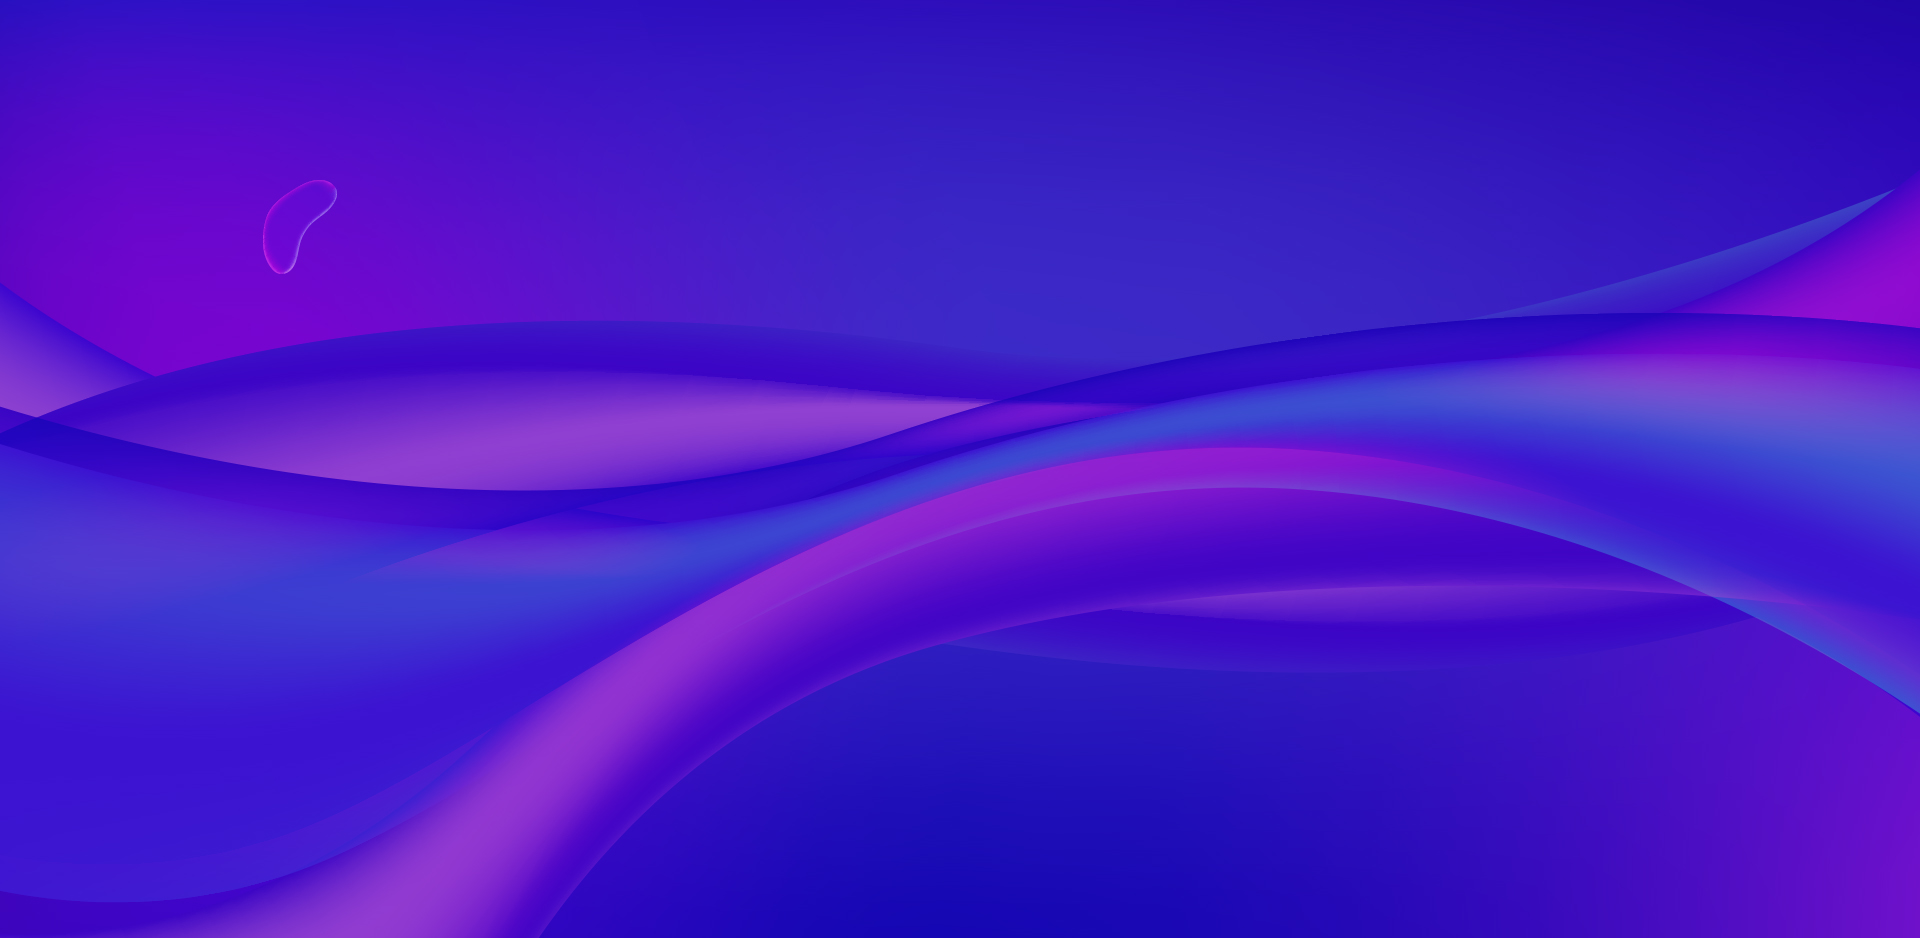
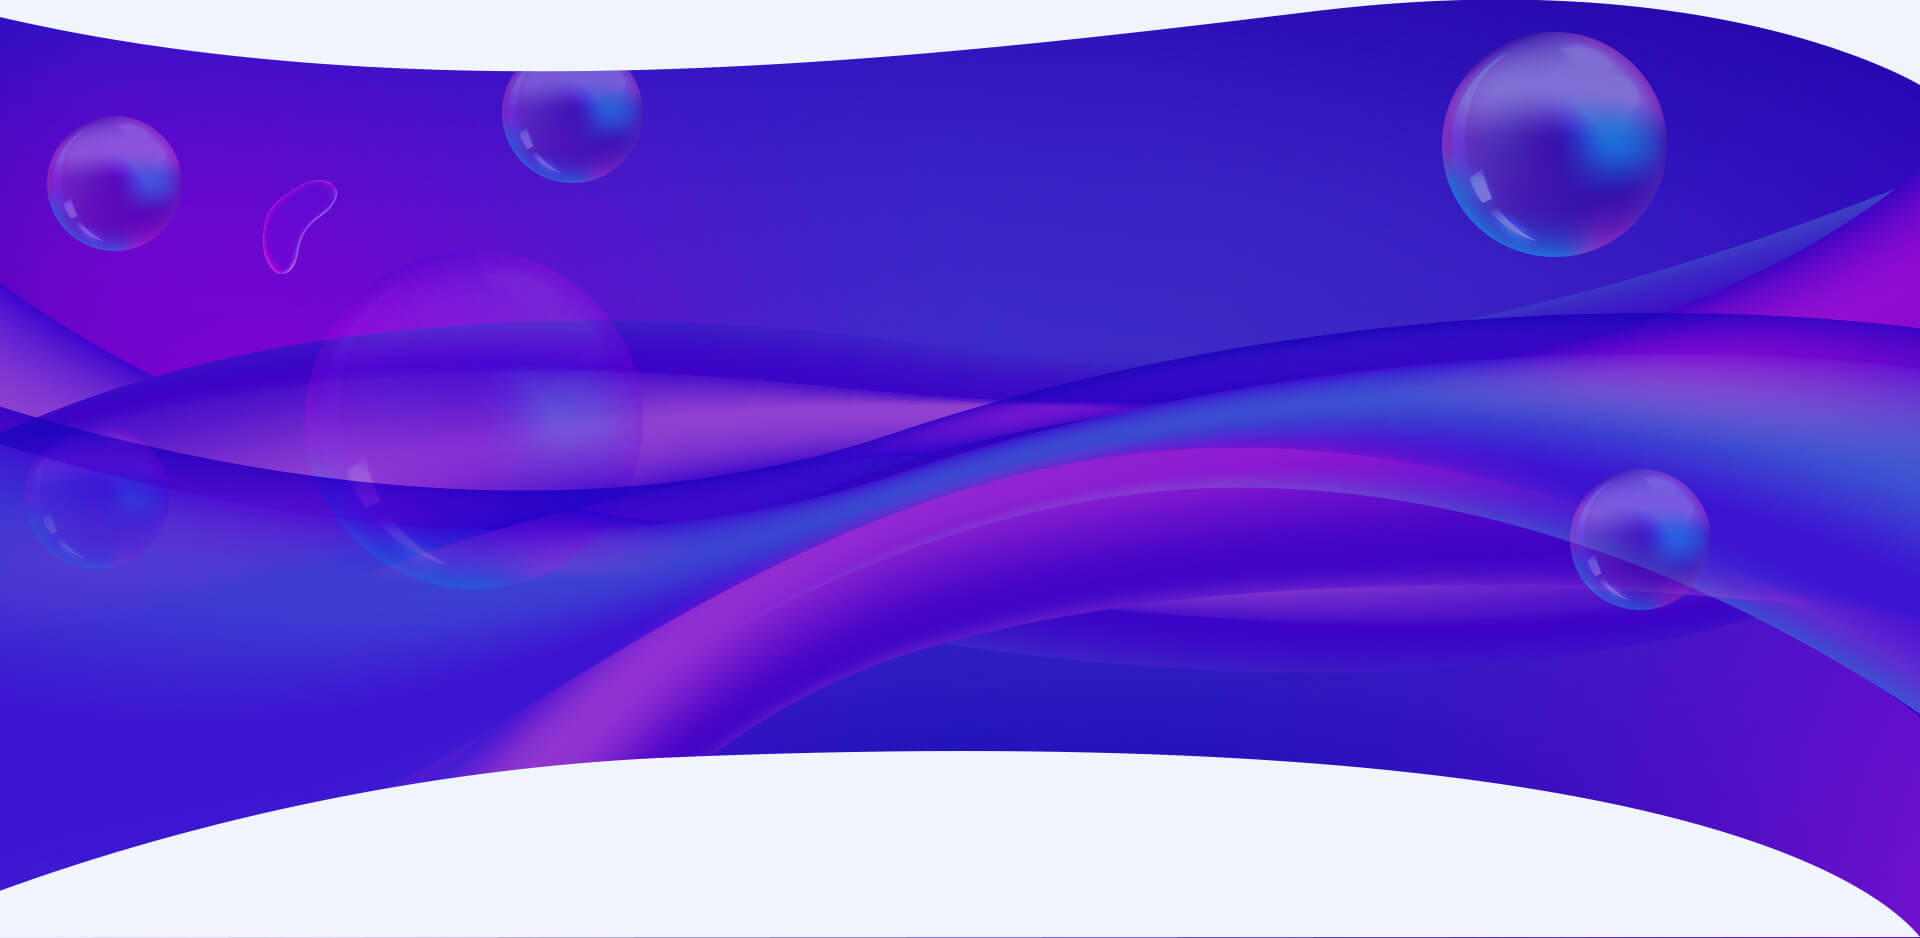
Стилизовали секцию addons

diff --git a/css/style.css b/css/style.css
@@ -1124,23 +1124,117 @@ input:checked+#overlay>* {
 
 /*----------Стили для секции addons ----------*/
 
-.addons {}
+.addons {
+  padding: 120px 15px;
+}
 
-.container {}
+.addons-container {
+  position: relative;
+  width: 730px;
+  height: 730px;
+  border-radius: 50%;
+  background: #f0f5fc;
+  margin: 0 auto;
+}
 
-.boost-decs {}
+.addons-container::before {
+  position: absolute;
+  top: 50%;
+  left: 50%;
+  content: "";
+  background-image: url(../img/addon-bg.png);
+  transform: translate(-50%, -50%);
+  width: 1920px;
+  height: 100%;
+  background-size: cover;
+  background-repeat: no-repeat;
+  background-position: center center;
+  z-index: -1;
+}
 
-.boost__subtitle {}
+.addons-item {
+  display: flex;
+  align-items: center;
+  justify-content: center;
+  width: 135px;
+  height: 135px;
+  background: #fff;
+  border-radius: 50%;
+}
 
-.boost__title {}
+.addons-item_center {
+  position: absolute;
+  top: 50%;
+  left: 50%;
+  transform: translate(-50%, -50%);
+}
 
-.boost__text {}
+.addons-item:nth-child(2) {
+  position: absolute;
+  top: 120px;
+  left: 50%;
+  transform: translate(-50%, -50%);
+}
 
-.addons-container {}
+.addons-item:nth-child(3) {
+  position: absolute;
+  top: 143px;
+  left: 110px;
+}
 
-.addons-item {}
+.addons-item:nth-child(4) {
+  position: absolute;
+  top: 143px;
+  right: 110px;
+}
 
-.addons-item_center {}
+.addons-item:nth-child(5) {
+  position: absolute;
+  top: 330px;
+  left: 30px;
+}
+
+.addons-item:nth-child(6) {
+  position: absolute;
+  top: 330px;
+  right: 30px;
+}
+
+.addons-item:nth-child(7) {
+  position: absolute;
+  bottom: 60px;
+  right: 145px;
+}
+
+.addons-item:nth-child(8) {
+  position: absolute;
+  bottom: 60px;
+  left: 145px;
+}
+
+.addons-item_center::before {
+  position: absolute;
+  top: 50%;
+  left: 50%;
+  content: "";
+  width: 540px;
+  height: 540px;
+  border: 1px solid #a6c1ff;
+  border-radius: 50%;
+  transform: translate(-50%, -50%);
+}
+
+.addons-item_center::after {
+  position: absolute;
+  top: 50%;
+  left: 50%;
+  content: "";
+  width: 230px;
+  height: 230px;
+  border: 1px solid #a6c1ff;
+  border-radius: 50%;
+  transform: translate(-50%, -50%);
+}
 
 .addons-item__img {}
 
